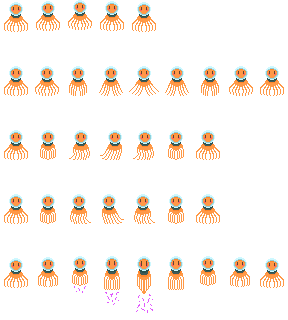
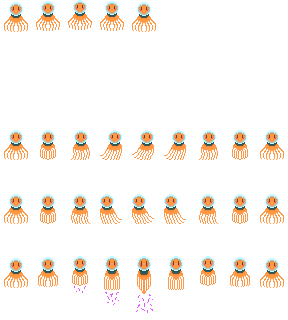
update Michael animation
TODO: replace core\assets\A-michael.png with a new one

diff --git a/core/src/edu/cornell/lilbiggames/cephalonaut/engine/model/CephalonautModel.java b/core/src/edu/cornell/lilbiggames/cephalonaut/engine/model/CephalonautModel.java
@@ -255,12 +255,26 @@ public class CephalonautModel extends OctopusObstacle {
 				frame = 0;
 		}
 		else if(frame>=18&&frame<25){
-			frame += dt*10f;
+			if(frame<23||(inking && ink > 0.0f))
+				frame += dt*20f;
+			else if (rotation>-0.8f){
+				frame += dt*15f;
+			}
+			else if (frame>24 && rotation<-0.8f){
+				frame -= dt*15f;
+			}
 			if(frame>=25)
 				frame = 0;
 		}
 		else if(frame>=27&&frame<34){
-			frame += dt*10f;
+			if(frame<32||(inking && ink > 0.0f))
+				frame += dt*20f;
+			else if (rotation<0.8f){
+				frame += dt*15f;
+			}
+			else if (frame>33 && rotation>0.8f){
+				frame -= dt*15f;
+			}
 			if(frame>=34)
 				frame = 0;
 		}
@@ -275,6 +289,10 @@ public class CephalonautModel extends OctopusObstacle {
 				frame = 0;
 			if(inking && ink > 0.0f)
 				frame = 36;
+			else if(rotation>0.8f)
+				frame = 27;
+			else if (rotation<-0.8f)
+				frame = 18;
 		}
 		filmstrip.setFrame((int)frame);
 
